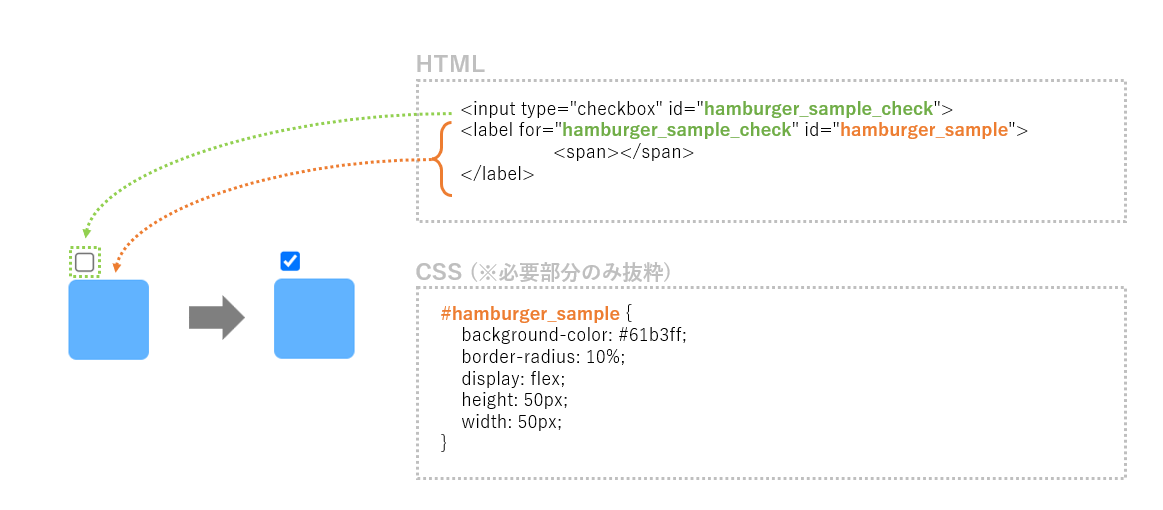
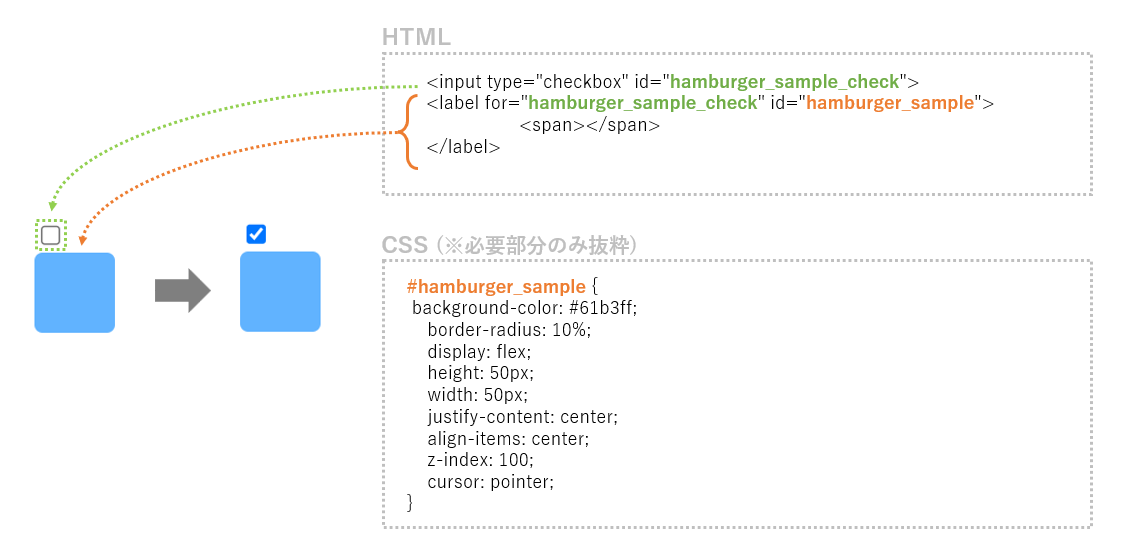
ハンバーガーメニューサンプルの動きおよび説明の修正

diff --git a/content_hamburger.html b/content_hamburger.html
@@ -75,11 +75,8 @@ height: 50px;
 width: 50px;
 justify-content: center;
 align-items: center;
-/*position: fixed;*/
 z-index: 100;
 cursor: pointer;
-/*top: 20px;*/
-/*left: 20px;*/
 }
 
 #hamburger_sample span,
@@ -145,32 +142,35 @@ border-radius: 5px;
     <div class="explanation">
         <p>
             ハンバーガーメニューは一見複雑そうな内容に見えますが、ひとつひとつはシンプルなつくりとなっています。<br/>
-            順に追って説明していきます。<br/><br/>
+            順に追って見ていきましょう。<br/><br/>
             <b>① まず、チェックボックスとそれに連動するボタンを用意します。</b><br/>
             <img src="img/content_hamburger_1.png" class="img_adjust"><br/><br/>
             チェックボックスを用意した後、そのチェックボックスに対応するラベルを作成します。<br/>
-            ラベルの見た目はCSSで調整しています。高さと幅は50px、背景は#61b3ff(<span class="skyblue">■</span>)…と設定し、疑似的なボタンにしています。<br/><br/>
+            ラベルの見た目はCSSで調整しています。高さと幅は50px、背景は#61b3ff(<span class="skyblue">■</span>)…と設定し、疑似的なボタンにしています。<br/><br/><br/>
 
             <b>② 次に、チェックボックス部分を非表示にし、ラベル(疑似ボタン)に白い3本線を作成します。</b><br/><br/>
             <img src="img/content_hamburger_2.png" class="img_adjust"><br/><br/>
             チェックボックスは見た目上不要なため、非表示に設定します。<br/>
             ラベルの内部の&lt;span&gt;タグに対しては、CSSで高さ3px、幅25pxの線を設定しました。<br/>
             また、&lt;span&gt;タグの直前(::before)・直後(::after)にも疑似要素を作成し、それらに対しても同様の線を設定しました。<br/>
-            そのままだと3本線は重なった状態となってしまうため、直前・直後の疑似要素に対して上下方向にずらす設定を追加しています。<br/><br/>
-            <b>③ チェックボックスにチェックが入った際の変化を設定します。</b><br/>
+            そのままだと3本線は重なった状態となってしまうため、直前・直後の疑似要素に対して上下方向にずらす設定を追加しています。<br/><br/><br/>
+            <b>③ チェックボックスにチェックが入った際の変化を設定します。</b><br/><br/>
             <img src="img/content_hamburger_3.png" class="img_adjust">
             チェックボックスにチェックが入った状態(:checked)に対してCSSで設定をしています。</br>
-            ②で作成した3本線に対し、上からそれぞれ45度回転・色を透明(transparent)・45度逆回転を設定しており、また綺麗な×マークに見えるように位置を調整しています。<br/><br/>
+            ②で作成した3本線に対し、上からそれぞれ45度回転・色を透明(transparent)・45度逆回転を設定しており、また綺麗な×マークに見えるように位置を調整しています。<br/><br/><br/>
 
-            <b>④ 最後に、連動する追加要素(メニューバー)を設定します。</b><br/>
-            <img src="img/content_hamburger_4.png" class="img_adjust"><br/>
+            <b>④ 連動する追加要素(メニューバー)を設定します。</b><br/>
+            <img src="img/content_hamburger_4.png" class="img_adjust"><br/><br/>
             ハンバーガーメニューのクリックによって連動させたい要素を作成します。<br/>
-            今回は疑似的なメニューの図形の水平位置がチェック前とチェック後で100pxだけ変化するように設定しています。<br/><br/>
+            今回は疑似的なメニューの図形を用意し、水平位置がチェック前とチェック後で100pxだけ変化するように設定しました。<br/><br/><br/>
 
-            なお、ここで記載した内容はあくまでも一例であり、基本的な仕組みを理解すれば色々な応用が可能です。<br/><br/>
-            
+            <b>⑤ 最後に、変化する要素の動きを滑らかにするトランジション(transition)を設定して完了です。</b><br/><br/>
+            <img src="img/content_hamburger_5.png" class="img_adjust"><br/><br/>
+            ②で作成した3本線と④で作成した疑似メニューに対して、チェックを入れる前・入れた後を含むすべての状態変化が0.4秒かけて変化するように設定します。<br/>
+            これでハンバーガーメニューが完成です。お疲れ様でした！<br/><br/><br/>
 
-
+            なお、ここで記載した内容はあくまでも一例であり、仕組みを理解すれば色々な応用が可能です。<br/>
+            思い思いのハンバーガーメニューを作っていきましょう！<br/><br/>
         </p>
     </div>
 </body>

diff --git a/css/sample_hamburger.css b/css/sample_hamburger.css
@@ -15,11 +15,8 @@
     width: 50px;
     justify-content: center;
     align-items: center;
-    /*position: fixed;*/
     z-index: 100;
     cursor: pointer;
-    /*top: 20px;*/
-    /*left: 20px;*/
 }
 
 #hamburger_sample span,
@@ -72,6 +69,7 @@
     left: -100px;
     top: 10px;
     border-radius: 5px;
+    transition: all 0.4s;
 }
 
 .img_adjust{
